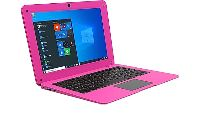
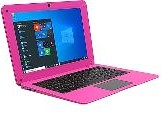
Adds consistent footers for improved UX and crops some images on index

diff --git a/index.html b/index.html
@@ -33,7 +33,7 @@
       <section id="hero">
         <div class="hero_left">
           <p class="hero_header">
-            Online computer store
+            Mega Store Online
           </p>
           <p class="hero_secondary">
             At Mega Store, we’re passionate about providing you with the best computers and technology solutions.
@@ -53,7 +53,7 @@
 
       <section id="information">
         <p class="info_header">
-          Best offers
+          Best Offers
         </p>
         <div class="info_figures">
           <figure>
@@ -105,7 +105,7 @@
            and recommendations tailored to your requirements.
         </p>
         <p class="quote_author">
-          Store manager
+          Rob the Store Manager
         </p>
       </section>
       
@@ -115,7 +115,7 @@
             If you need a laptop or computer click sign up
           </p>
           <p class="CTA_text">
-            Sign up in Mega Store by clicking that button right over there!
+            Sign up in Mega Store by clicking that button right there!
           </p>
         </div>
         <button type="button" class="CTA_signup">
@@ -125,9 +125,13 @@
     </main>
 
     <footer id="footer">
-      <p class="copyright">
-        Copyright ©
-      </p>
+      <p> Back to...</p>
+      <hr>
+      <a href="./index.html">Top</a>
+      <a href="#information">Best Offers</a>
+      <hr>
+      <p>Made by Yazan, Kevin and Mo</p>
+      <hr>
     </footer>
   </body>
 

diff --git a/styles/index.css b/styles/index.css
@@ -180,7 +180,7 @@ body {
 .info_figures img {
   width: 190px;
   height: 200px;
-  object-fit: cover;
+  object-fit: fill;
   margin-bottom: 0.5rem;
   border: 5px solid var(--cta-bg-color);
   border-radius: 12px;
@@ -266,13 +266,42 @@ body {
   background-color: var(--light);
   color: var(--dark);
 }
-
+/*footer styles */
 #footer {
+  display:flex;
+  flex-direction: column;
+  align-items: center;
   background-color: var(--dark);
   color: var(--light);
   text-align: center;
   padding: 1.5rem;
+  height: auto;
+  font-size: var(--small-text-size);
 }
+
+#footer a{
+  display: block;
+  text-decoration: none;
+  color: var(--light);
+  margin: 1rem;
+  cursor: pointer;
+  transition: color 0.3s ease;
+}
+
+#footer a:hover{
+  color: var(--cta-bg-color);
+}
+
+#footer p {
+  color: var(--light);
+  margin: 1rem;
+}
+
+#footer hr{
+  width: 300px;
+}
+/* End of footer styles */
+
 
 /* For devices smaller than 600px */
 @media (max-width: 600px) {

diff --git a/styles/about.css b/styles/about.css
@@ -165,7 +165,11 @@ color: grey;
     animation: fadeInUp 1s ease-out forwards;
     animation-delay: 1s;
 }
+/*footer styles */
 #footer {
+    display:flex;
+    flex-direction: column;
+    align-items: center;
     background-color: var(--dark);
     color: var(--light);
     text-align: center;
@@ -174,19 +178,29 @@ color: grey;
     font-size: var(--small-text-size);
   }
   
-#footer a{
+  #footer a{
     display: block;
     text-decoration: none;
     color: var(--light);
-    margin-bottom: 1rem;
+    margin: 1rem;
     cursor: pointer;
     transition: color 0.3s ease;
   }
   
   #footer a:hover{
-    color: var(--cta-bg-color)
+    color: var(--cta-bg-color);
   }
-
+  
+  #footer p {
+    color: var(--light);
+    margin: 1rem;
+  }
+  
+  #footer hr{
+    width: 300px;
+  }
+  /* End of footer styles */
+  
 @media  (max-width:600px) {
 
     .main_nav {

diff --git a/styles/services.css b/styles/services.css
@@ -231,6 +231,9 @@ button.appointment_button:hover{
 /* end of services styles */
 /*footer styles */
 #footer {
+  display:flex;
+  flex-direction: column;
+  align-items: center;
   background-color: var(--dark);
   color: var(--light);
   text-align: center;
@@ -243,14 +246,25 @@ button.appointment_button:hover{
   display: block;
   text-decoration: none;
   color: var(--light);
-  margin-bottom: 1rem;
+  margin: 1rem;
   cursor: pointer;
   transition: color 0.3s ease;
 }
 
 #footer a:hover{
-  color: var(--cta-bg-color)
+  color: var(--cta-bg-color);
 }
+
+#footer p {
+  color: var(--light);
+  margin: 1rem;
+}
+
+#footer hr{
+  width: 300px;
+}
+/* End of footer styles */
+
 
 /* end of footer styles */
 /* end of styles for desktop */

diff --git a/styles/products.css b/styles/products.css
@@ -340,6 +340,42 @@ body {
   margin-bottom: 7rem;
 }
 
+/*footer styles */
+#footer {
+  display:flex;
+  flex-direction: column;
+  align-items: center;
+  background-color: var(--dark);
+  color: var(--light);
+  text-align: center;
+  padding: 1.5rem;
+  height: auto;
+  font-size: var(--small-text-size);
+}
+
+#footer a{
+  display: block;
+  text-decoration: none;
+  color: var(--light);
+  margin: 1rem;
+  cursor: pointer;
+  transition: color 0.3s ease;
+}
+
+#footer a:hover{
+  color: var(--cta-bg-color);
+}
+
+#footer p {
+  color: var(--light);
+  margin: 1rem;
+}
+
+#footer hr{
+  width: 300px;
+}
+/* End of footer styles */
+
 /* For devices smaller than 600px */
 @media (max-width: 600px) {
   .main_nav {

diff --git a/pages/about.html b/pages/about.html
@@ -49,9 +49,15 @@
         </div>
     </section>
 
+    <hr> <!-- placed here to make a clear distinction between the footer and contacts section -->
+
     <footer id="footer">
-      <a href="./about.html">Back to top</a>
-      <p class="footer_text">Copyright ©</p>
+      <p> Back to...</p>
+      <hr>
+      <a href="./about.html">Top</a>
+      <hr>
+      <p class="footer_text">Made by Mo, Yazan and Kevin</p>
+      <hr>
     </footer>
   </body>
 </html>

diff --git a/pages/products.html b/pages/products.html
@@ -173,9 +173,15 @@
   </main>
 
   <footer id="footer">
-    <p class="copyright">
-      Copyright ©
-    </p>
+    <p>Back to ...</p>
+    <hr>
+    <a href="./products.html">Top</a>
+    <a href="#category">Shop by Category</a>
+    <a href="#featured-products">Featured Products</a>
+    <a href="#new-arrivals">New Arrivals</a>
+    <hr>
+    <p>Made by Yazan, Kevin and Mo</p>
+    <hr>
   </footer>
 </body>
 </html>

diff --git a/pages/services.html b/pages/services.html
@@ -169,8 +169,13 @@
     </main>
 
     <footer id="footer">
-      <a href="./services.html">Back to top</a>
-      <p class="footer_text">Copyright ©</p>
+      <p>Back to...</p>
+      <hr>
+      <a href="./services.html">Top</a>
+      <a href="#services_details">Details</a>
+      <hr>
+      <p class="footer_text">Made by Kevin, Yazan and Mo</p>
+      <hr>
     </footer>
   </body>
 </html>
